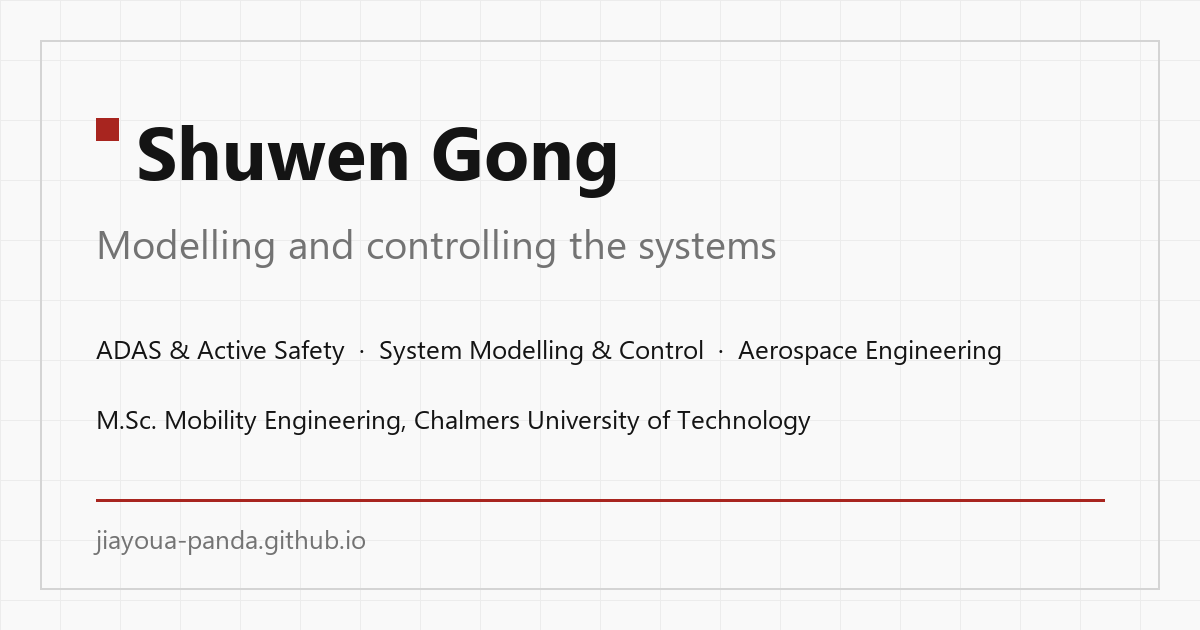
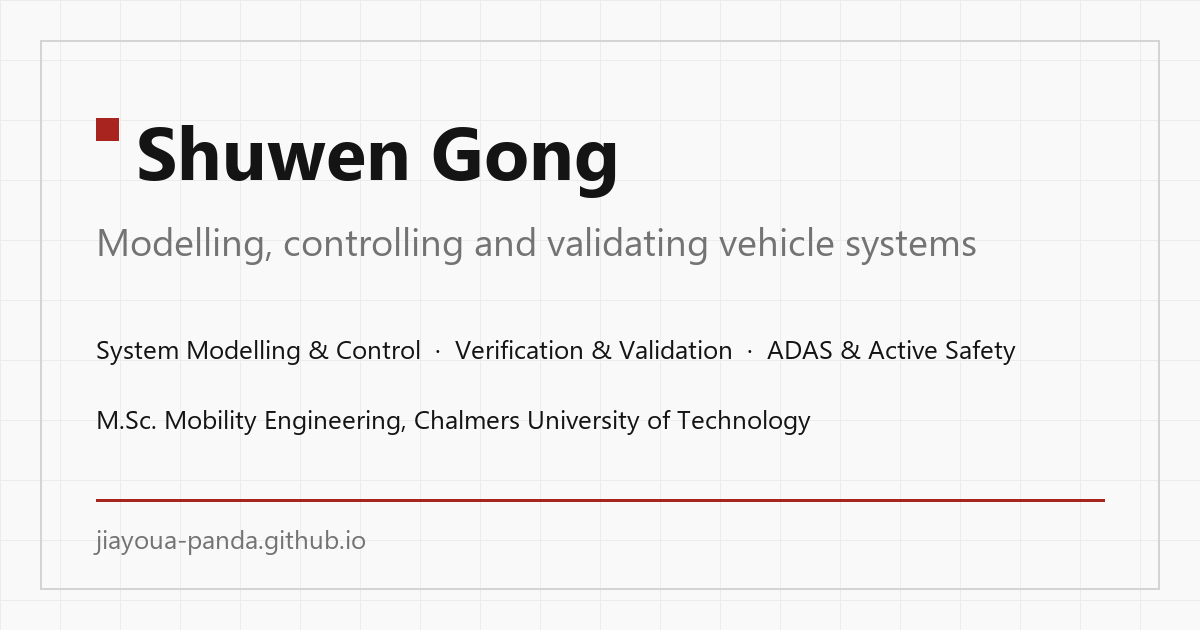
定位调整：标题改为车辆系统建模与控制 + 验证评估，ADAS 作为应用领域；About 卡片重排；更新分享预览图

Changed region(s): [[0.0925, 0.3619, 0.8017, 0.4222], [0.0617, 0.5429, 0.8633, 0.573]]

diff --git a/index.html b/index.html
@@ -3,21 +3,21 @@
 <head>
 <meta charset="UTF-8">
 <meta name="viewport" content="width=device-width, initial-scale=1.0">
-<meta name="description" content="Shuwen Gong — ADAS and active safety engineer grounded in system modelling and control, with aerospace final-assembly and live-service systems design experience.">
-<title>Shuwen Gong — ADAS &amp; Active Safety Engineer</title>
+<meta name="description" content="Shuwen Gong — vehicle systems modelling, control and validation engineer (M.Sc. Mobility Engineering, Chalmers), with ADAS and active safety as the application domain and a background in aerospace final assembly and live-service systems design.">
+<title>Shuwen Gong — Vehicle Systems Modelling &amp; Control Engineer</title>
   <link rel="icon" type="image/svg+xml" href="assets/images/meta/favicon.svg">
   <link rel="icon" type="image/png" sizes="64x64" href="assets/images/meta/favicon.png">
   <link rel="canonical" href="https://jiayoua-panda.github.io/">
   <meta property="og:type" content="website">
   <meta property="og:url" content="https://jiayoua-panda.github.io/">
-  <meta property="og:title" content="Shuwen Gong — ADAS &amp; Active Safety Engineer">
-  <meta property="og:description" content="Modelling and controlling the systems. ADAS, active safety, and vehicle system modelling and control — M.Sc. Mobility Engineering, Chalmers.">
+  <meta property="og:title" content="Shuwen Gong — Vehicle Systems Modelling &amp; Control Engineer">
+  <meta property="og:description" content="Modelling, controlling and validating vehicle systems. System modelling &amp; control, verification &amp; validation, ADAS and active safety — M.Sc. Mobility Engineering, Chalmers.">
   <meta property="og:image" content="https://jiayoua-panda.github.io/assets/images/meta/og-image.png">
   <meta property="og:image:width" content="1200">
   <meta property="og:image:height" content="630">
   <meta name="twitter:card" content="summary_large_image">
-  <meta name="twitter:title" content="Shuwen Gong — ADAS &amp; Active Safety Engineer">
-  <meta name="twitter:description" content="Modelling and controlling the systems. ADAS, active safety, and vehicle system modelling and control — M.Sc. Mobility Engineering, Chalmers.">
+  <meta name="twitter:title" content="Shuwen Gong — Vehicle Systems Modelling &amp; Control Engineer">
+  <meta name="twitter:description" content="Modelling, controlling and validating vehicle systems. System modelling &amp; control, verification &amp; validation, ADAS and active safety — M.Sc. Mobility Engineering, Chalmers.">
   <meta name="twitter:image" content="https://jiayoua-panda.github.io/assets/images/meta/og-image.png">
 <link rel="preconnect" href="https://fonts.googleapis.com">
 <link rel="preconnect" href="https://fonts.gstatic.com" crossorigin>
@@ -53,13 +53,13 @@
 </svg>
 <div class="hg">
   <div>
-    <div class="hbadge"><div class="hdot"></div>Open to ADAS &amp; active safety roles</div>
+    <div class="hbadge"><div class="hdot"></div>Open to thesis roles in vehicle modelling, control &amp; V&amp;V</div>
     <h1 class="hname">Shuwen <em>Gong</em></h1>
-    <p class="htitle">Modelling and controlling the systems</p>
+    <p class="htitle">Modelling, controlling and validating vehicle systems</p>
     <div class="disc-tags">
-      <span class="disc-tag">ADAS &amp; Active Safety</span>
       <span class="disc-tag">System Modelling &amp; Control</span>
-      <span class="disc-tag">Aerospace Engineering</span>
+      <span class="disc-tag">Verification &amp; Validation</span>
+      <span class="disc-tag">ADAS &amp; Active Safety</span>
     </div>
     <ul class="ident-list">
       <li>Chalmers University of Technology</li>
@@ -104,19 +104,19 @@
     </div>
     <div class="wc">
       <div class="wc-icon">
+        <svg fill="none" stroke="currentColor" stroke-width="1.8" viewBox="0 0 24 24"><path d="M1 12s4-8 11-8 11 8 11 8-4 8-11 8-11-8-11-8z"/><circle cx="12" cy="12" r="3"/></svg>
+      </div>
+      <div class="wc-title">Software &amp; Perception</div>
+      <p class="wc-desc">Computer vision and algorithm development — SfM pipelines, graph search, and interactive tooling in Python</p>
+      <div class="wc-tools"><span class="tag">Python</span><span class="tag">OpenCV / NumPy</span><span class="tag">Git</span><span class="tag">Jupyter</span></div>
+    </div>
+    <div class="wc">
+      <div class="wc-icon">
         <svg fill="none" stroke="currentColor" stroke-width="1.8" viewBox="0 0 24 24"><path d="M17 21v-2a4 4 0 0 0-4-4H5a4 4 0 0 0-4 4v2"/><circle cx="9" cy="7" r="4"/><path d="M23 21v-2a4 4 0 0 0-3-3.87"/><path d="M16 3.13a4 4 0 0 1 0 7.75"/></svg>
       </div>
       <div class="wc-title">Active Safety &amp; ADAS</div>
       <p class="wc-desc">Active and passive vehicle safety, driver-behaviour field studies with instrumented vehicles, and intervention logic for vulnerable road users</p>
       <div class="wc-tools"><span class="tag">Active Safety</span><span class="tag">ADAS</span><span class="tag">Crash Analysis</span><span class="tag">LIDAR Field Testing</span></div>
-    </div>
-    <div class="wc">
-      <div class="wc-icon">
-        <svg fill="none" stroke="currentColor" stroke-width="1.8" viewBox="0 0 24 24"><path d="M1 12s4-8 11-8 11 8 11 8-4 8-11 8-11-8-11-8z"/><circle cx="12" cy="12" r="3"/></svg>
-      </div>
-      <div class="wc-title">Software &amp; Perception</div>
-      <p class="wc-desc">Computer vision and algorithm development — SfM pipelines, graph search, and interactive tooling in Python</p>
-      <div class="wc-tools"><span class="tag">Python</span><span class="tag">OpenCV / NumPy</span><span class="tag">C++</span><span class="tag">Git</span><span class="tag">Jupyter</span></div>
     </div>
     <div class="wc">
       <div class="wc-icon">
@@ -437,7 +437,7 @@
 <div class="wrap">
   <h2 class="sh">Let’s connect.</h2>
   <span class="ink-rule" aria-hidden="true"></span>
-  <p class="csub">Open to master’s thesis collaborations and graduate engineering opportunities in ADAS, active safety, and vehicle system modelling and control.</p>
+  <p class="csub">Open to master’s thesis collaborations and graduate engineering opportunities in vehicle system modelling and control, verification and validation, and ADAS and active safety.</p>
   <div class="cbtns">
     <a class="cbtn cbtn-p" href="mailto:gswzds@gmail.com">
       <svg fill="none" stroke="currentColor" stroke-width="2" viewBox="0 0 24 24"><path d="M4 4h16c1.1 0 2 .9 2 2v12c0 1.1-.9 2-2 2H4c-1.1 0-2-.9-2-2V6c0-1.1.9-2 2-2z"/><polyline points="22,6 12,13 2,6"/></svg>
@@ -456,7 +456,7 @@
 </section>
 
 <footer>
-  <p>Shuwen Gong, ADAS &amp; vehicle systems engineer. <a href="mailto:gswzds@gmail.com">gswzds@gmail.com</a></p>
+  <p>Shuwen Gong, vehicle systems modelling &amp; control engineer. <a href="mailto:gswzds@gmail.com">gswzds@gmail.com</a></p>
 </footer>
 
 <!-- PROJECT DETAIL MODAL -->

diff --git a/DESIGN.md b/DESIGN.md
@@ -127,7 +127,7 @@ components:
 
 ## Overview
 
-The site is the portfolio of Shuwen Gong — aerospace final-assembly engineer turned mobility engineer (Chalmers), aimed at engineering recruiters at Volvo Group and Einride. The positioning is ADAS, active safety, and system modelling and control. Its reference object is **an engineering drawing sheet**: pale paper, one weight of graphite ink, hairline construction lines, monospaced annotations in the margin — and a single red approval stamp. Everything on the page belongs to that world.
+The site is the portfolio of Shuwen Gong — aerospace final-assembly engineer turned mobility engineer (Chalmers), aimed at engineering recruiters at Volvo Group and Einride. The positioning is vehicle system modelling and control plus verification and validation; ADAS and active safety are the application domain, not the headline (decided 2026-10-13). Its reference object is **an engineering drawing sheet**: pale paper, one weight of graphite ink, hairline construction lines, monospaced annotations in the margin — and a single red approval stamp. Everything on the page belongs to that world.
 
 The page should feel precise, quiet and confident, not sold. The reader is a working engineer who will judge the craft; the design's job is to present the evidence (projects, patent, timeline) cleanly and let one red mark carry all the emphasis. Two sections — Featured Work and Engineering Experience — are printed on night paper to give the sheet a rhythm; they expand from an inset block to full width as the reader scrolls, like a sheet unrolling.
 
@@ -189,7 +189,7 @@ Rounded, but with a hierarchy. Outer containers (project cards, company panels, 
 - **Year chip** — Fira Code pill on the timeline line: on paper, stamp-red text and border on paper fill; on night, solid stamp fill with white text.
 - **Ink-rule** — the 110px red brush stroke under each section heading; static.
 - **Entry marker** — a 10px stamp-red square before each experience and education heading; it replaces the older accent side-rail.
-- **Status badge** — pill with a red dot: "Open to ADAS & active safety roles".
+- **Status badge** — pill with a red dot: "Open to thesis roles in vehicle modelling, control & V&V".
 
 ## Motion
 
